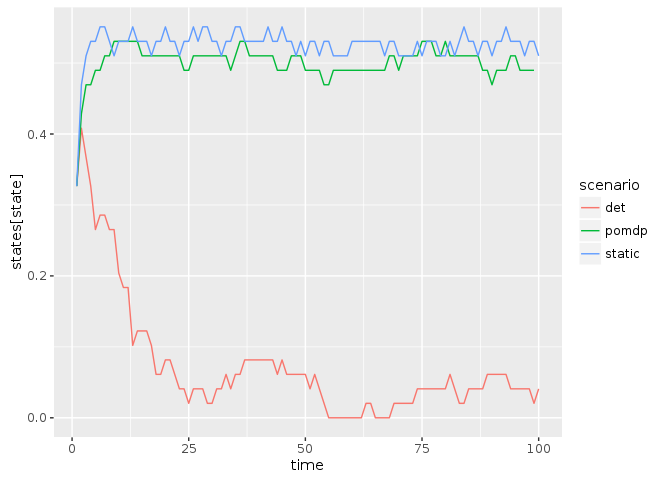
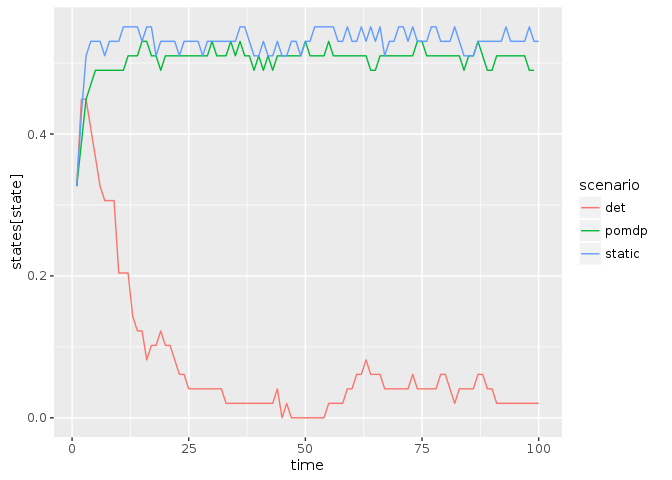
updated run

diff --git a/sethi-results.md b/sethi-results.md
@@ -206,9 +206,9 @@ df %>% group_by(scenario, rep) %>% summarise(value = sum(value)) %>%  group_by(s
 
 |scenario | mean(value)|
 |:--------|-----------:|
-|det      |    1.488961|
-|pomdp    |    2.810192|
-|static   |    2.666848|
+|det      |    1.539731|
+|pomdp    |    2.791132|
+|static   |    2.613969|
 
 ```r
 df %>% group_by(scenario, time) %>% summarise(value = mean(value), state = mean(state)) %>%
@@ -242,9 +242,9 @@ df %>% group_by(scenario, rep) %>% summarise(value = sum(value)) %>%  group_by(s
 
 |scenario | mean(value)|
 |:--------|-----------:|
-|det      |    1.385433|
-|pomdp    |    3.662175|
-|static   |    3.488639|
+|det      |    1.470816|
+|pomdp    |    3.609964|
+|static   |    3.456272|
 
 ```r
 df %>% group_by(scenario, time) %>% summarise(value = mean(value), state = mean(state)) %>%
@@ -255,38 +255,47 @@ ggplot(aes(time, states[state], col = scenario)) + geom_line()
 
 
 
+------
 
-## Small both
+## Policy as a function of prior:
 
+Policy is much more conservative when the prior belief is skewed towards small stock sizes, and more aggressive when the policy is skewed towards larger ones:
 
 
 ```r
+K_i <- which.min(abs(.66 - states))
+
 s1 <-  meta %>% filter(r == 1, sigma_m == 0.1, sigma_g == 0.1, model == "ricker", noise == "lognormal")
 alpha <- alphas_from_log(s1, log_dir)[[1]]
 m <- models_from_log(s1)[[1]]
-det_policy <- get_det(meta)
-
-sim <- purrr::map_df(1:50, function(i) appl::sim_pomdp(m$transition, m$observation, m$reward, discount, x0 = x0, Tmax = 100, alpha = alpha)$df, .id = "rep")
-s <- compute_policy(alpha,m$transition, m$observation, m$reward)
-sim2 <- purrr::map_df(1:50, function(i) mdplearning::mdp_planning(m$transition, m$reward, discount, x0 = x0, Tmax = 100, observation = m$observation, policy = s$policy), .id = "rep")
-sim3 <- purrr::map_df(1:50, function(i) mdplearning::mdp_planning(m$transition, m$reward, discount, x0 = x0, Tmax = 100, observation = m$observation, policy = det_policy), .id = "rep")
-
-df <- bind_rows(pomdp = sim, static = sim2, det = sim3, .id = "scenario")
-df %>% group_by(scenario, rep) %>% summarise(value = sum(value)) %>%  group_by(scenario) %>% summarise(mean(value))
-```
 
 
 
-|scenario | mean(value)|
-|:--------|-----------:|
-|det      |    3.886553|
-|pomdp    |    3.882983|
-|static   |    3.877829|
+unif <- compute_policy(alpha, m$transition, m$observation, m$reward)
+low <- compute_policy(alpha, m$transition, m$observation, m$reward, state_prior = m$observation[,5,1])
+high <- compute_policy(alpha, m$transition, m$observation, m$reward, state_prior = m$observation[,K_i,1])
 
-```r
-df %>% group_by(scenario, time) %>% summarise(value = mean(value), state = mean(state)) %>%
-ggplot(aes(time, states[state], col = scenario)) + geom_line()
+bind_rows(unif = unif, low = low, high = high, .id = "prior") %>% 
+  ggplot(aes(states[state], states[state] - actions[policy], col = prior)) + 
+  geom_line() +
+  coord_cartesian(ylim = c(0,0.8))
 ```
 
 ![](sethi-results_files/figure-html/unnamed-chunk-15-1.png)<!-- -->
+
+Priors:
+
+
+```r
+bind_rows(unif = data.frame(state = states, probability = rep(1, length(states))/length(states)),
+          low = data.frame(state = states, probability = m$observation[,5,1]),
+          high = data.frame(state = states, probability = m$observation[,K_i,1]),
+          .id = "prior") %>%
+  ggplot(aes(state,probability, col=prior)) + geom_point()
+```
+
+![](sethi-results_files/figure-html/unnamed-chunk-16-1.png)<!-- -->
+
+
+
 
